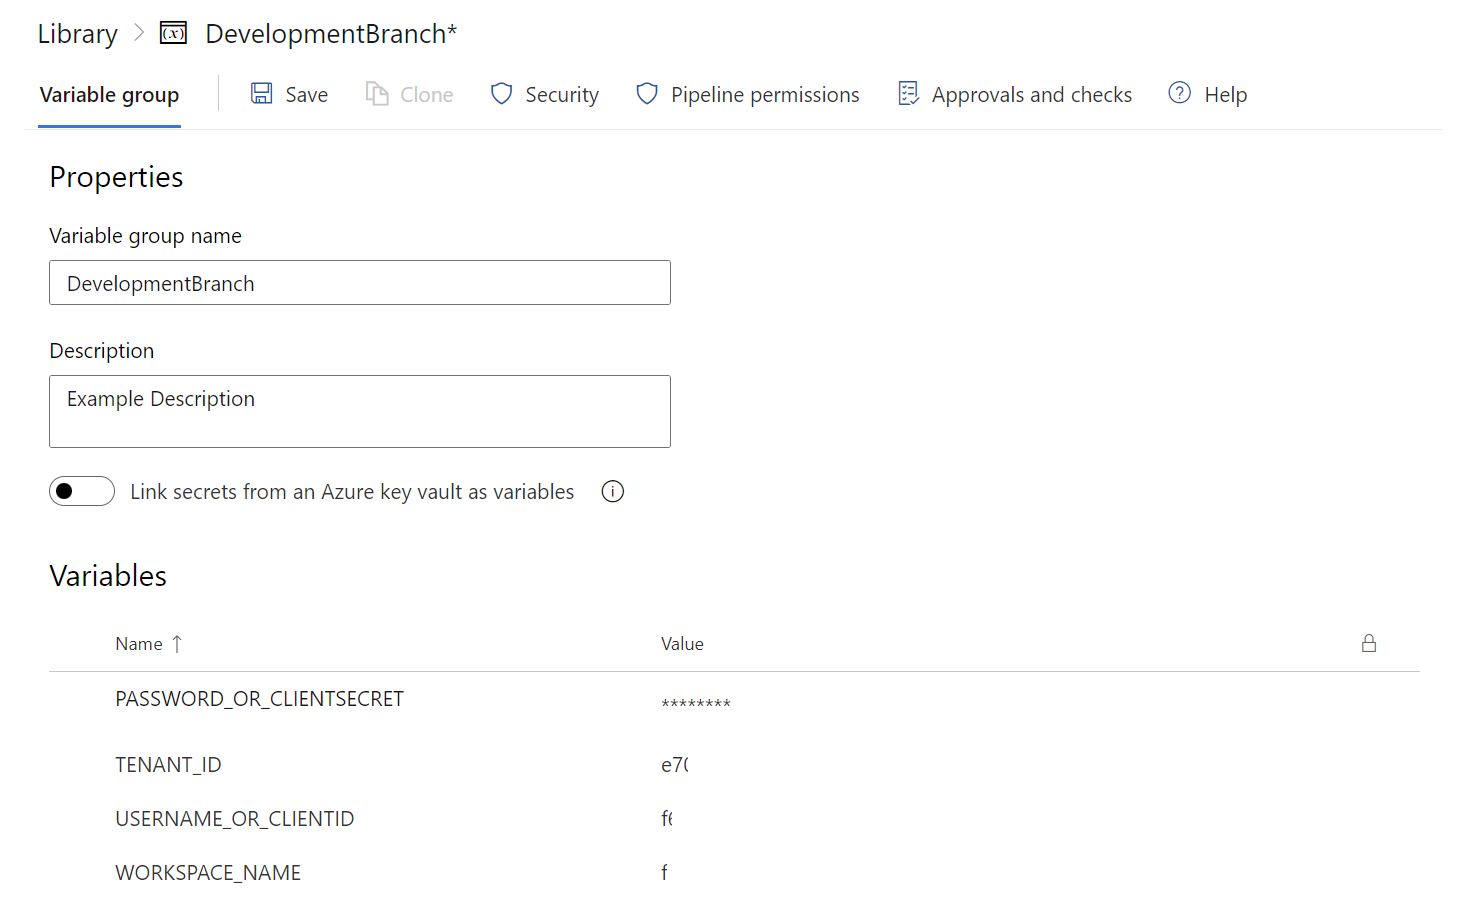
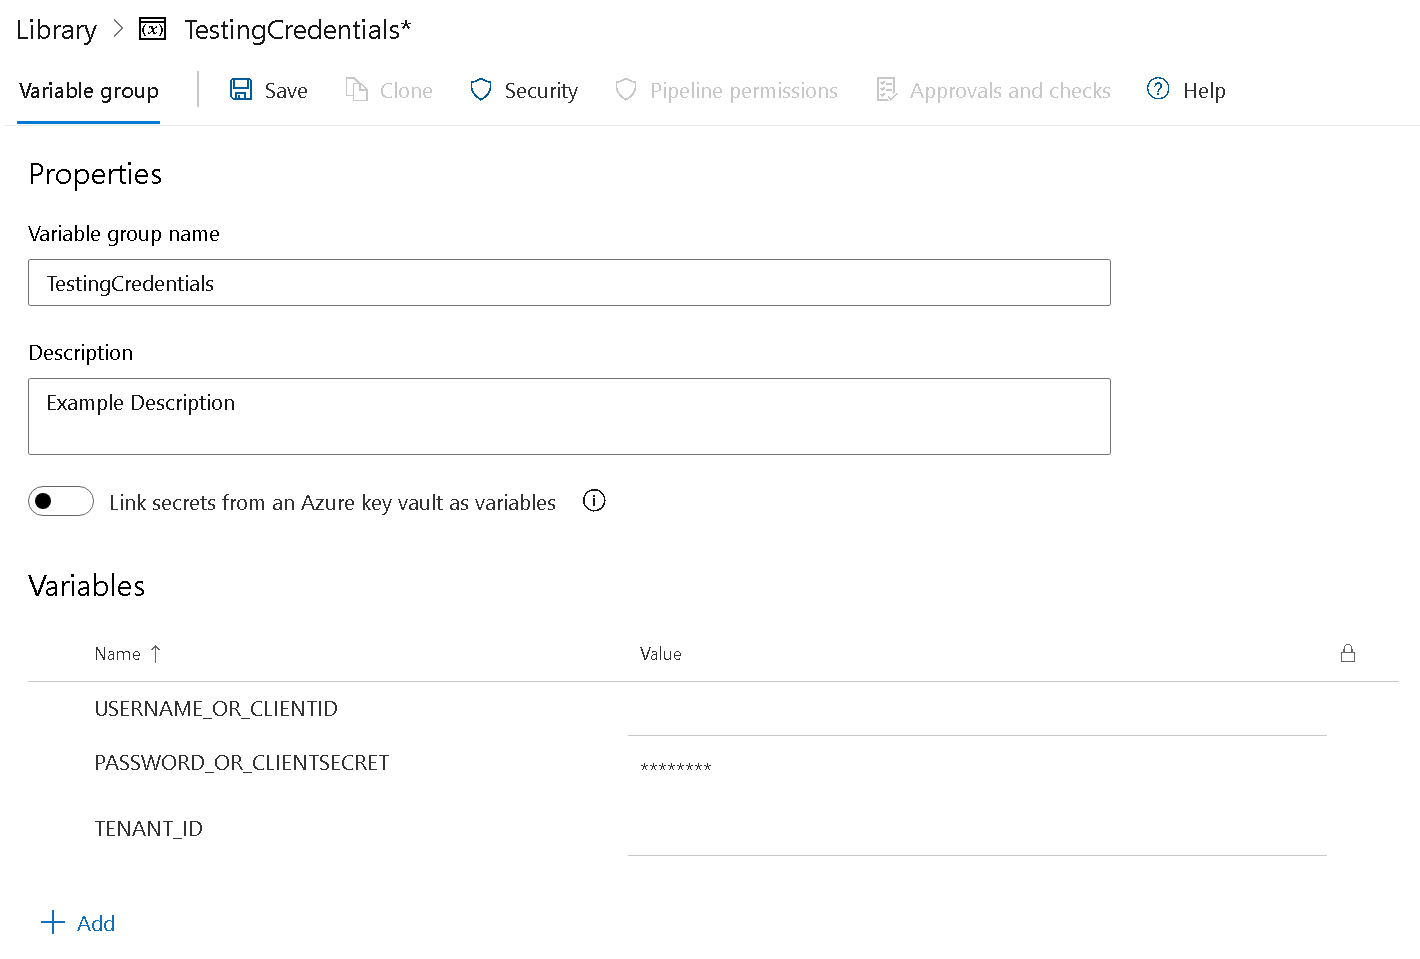
Updated Documentation

diff --git a/documentation/automated-testing-example.md b/documentation/automated-testing-example.md
@@ -29,7 +29,7 @@ If you are using the [DAX Query View Testing Pattern](dax-query-view-testing-pat
 
 ![Add Variable Group](./images/automated-testing-variable-group.png)
 
-3. Create a variable group called "DevelopmentBranch" and create the following variables:
+3. Create a variable group called "TestingCredentials" and create the following variables:
 
 - USERNAME_OR_CLIENTID - The service principal's application/client id or universal provider name for the account.
 - PASSWORD_OR_CLIENTSECRET - The client secret or password for the service principal or account respectively.
